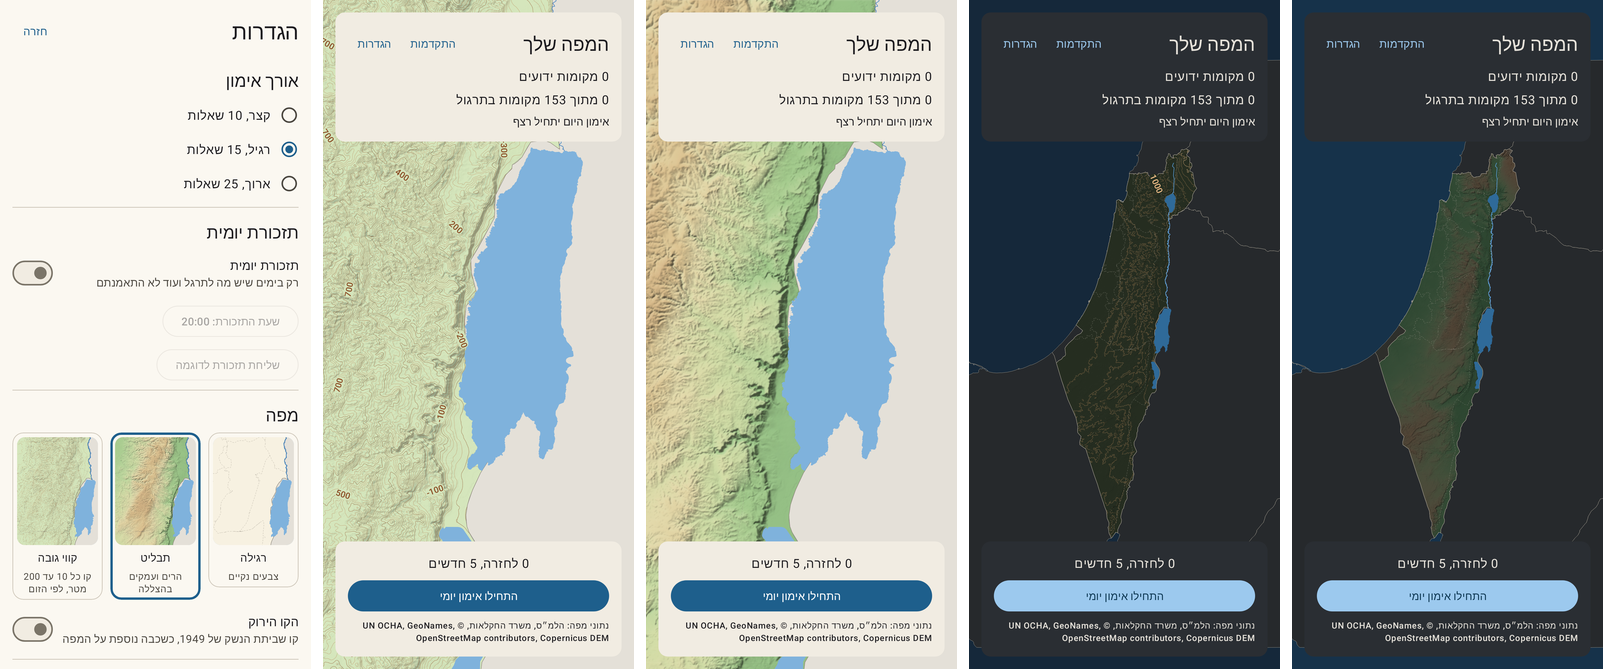
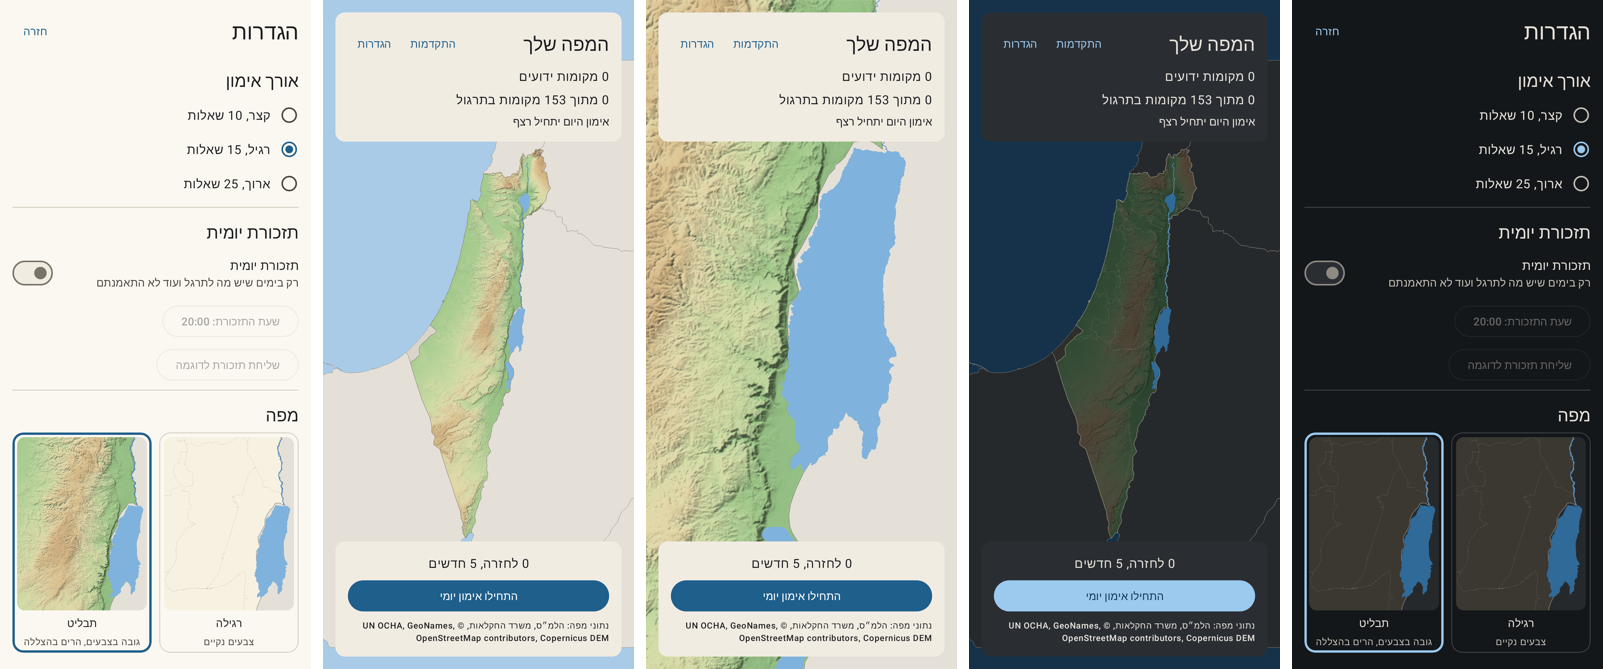
Points tests read the score inside the question card; refresh README images
Claude-Session: https://claude.ai/code/session_01Cd29ghGKayNM7SzBAF3k7g

diff --git a/app/src/test/kotlin/com/shavei/mapa/ScoringTest.kt b/app/src/test/kotlin/com/shavei/mapa/ScoringTest.kt
@@ -36,8 +36,9 @@ class ScoringTest {
 
     private fun has(text: String) = compose.onAllNodes(hasText(text)).fetchSemanticsNodes().isNotEmpty()
 
+    // The score is part of the question card, which a screen reader reads as one node.
     private fun textOf(tag: String) =
-        compose.onNodeWithTag(tag).fetchSemanticsNode().config[SemanticsProperties.Text].single().text
+        compose.onNodeWithTag(tag, useUnmergedTree = true).fetchSemanticsNode().config[SemanticsProperties.Text].single().text
 
     /** "12,450 נקודות" as 12450. */
     private fun points(text: String) = text.substringBefore(" ").replace(",", "").toInt()
@@ -54,7 +55,7 @@ class ScoringTest {
             while (!has("סיום אימון")) {
                 compose.waitUntil(10_000) {
                     has("הבנתי, בואו נתרגל") || has("סיום אימון") ||
-                        compose.onAllNodes(hasTestTag("score")).fetchSemanticsNodes().isNotEmpty()
+                        compose.onAllNodes(hasTestTag("score"), useUnmergedTree = true).fetchSemanticsNodes().isNotEmpty()
                 }
                 when {
                     has("סיום אימון") -> break

diff --git a/app/src/test/kotlin/com/shavei/mapa/AppFlowTest.kt b/app/src/test/kotlin/com/shavei/mapa/AppFlowTest.kt
@@ -51,7 +51,7 @@ class AppFlowTest {
 
         compose.onNodeWithText("הבנתי, בואו נתרגל").performClick()
         waitForText("סמנו על המפה: הים התיכון")
-        compose.onNodeWithTag("score").assertTextEquals("0 נקודות")
+        compose.onNodeWithTag("score", useUnmergedTree = true).assertTextEquals("0 נקודות")
         screenshot("3-ask")
 
         // Tap far out at sea, on the left edge of the map, middle height: inside it, full points.
@@ -67,7 +67,7 @@ class AppFlowTest {
 
         compose.onNodeWithText("הבנתי, בואו נתרגל").performClick()
         waitForText("סמנו על המפה: מפרץ אילת")
-        compose.onNodeWithTag("score").assertTextEquals("5,000 נקודות")
+        compose.onNodeWithTag("score", useUnmergedTree = true).assertTextEquals("5,000 נקודות")
         // A deliberate miss in the middle of the country, far from the gulf: almost no points.
         compose.onNodeWithTag("map").performTouchInput { click(Offset(width * 0.5f, height * 0.4f)) }
         waitForText("לא הפעם")

diff --git a/README.md b/README.md
@@ -23,6 +23,8 @@ asked. Installing a newer build updates the app and keeps your progress.
 
 ![Phase 1c: welcome, placement test, home with the reminder offer, progress, settings in dark mode, and the dark map with the Green Line](docs/images/phase1c-flow.png)
 
+![Points: the running score above a question, 5,000 points for a tap inside the sea, 3 points for a miss 107 km away, and the session total](docs/images/points.png)
+
 ![Map styles: the choice in settings, the relief map, zoomed in on the Dead Sea, and in dark mode](docs/images/map-styles.png)
 
 ![Phase 1d: the map test (no feedback between questions), its summary, the post-test offer a month later, and the progress screen with map test results and learning stats](docs/images/phase1d-flow.png)
